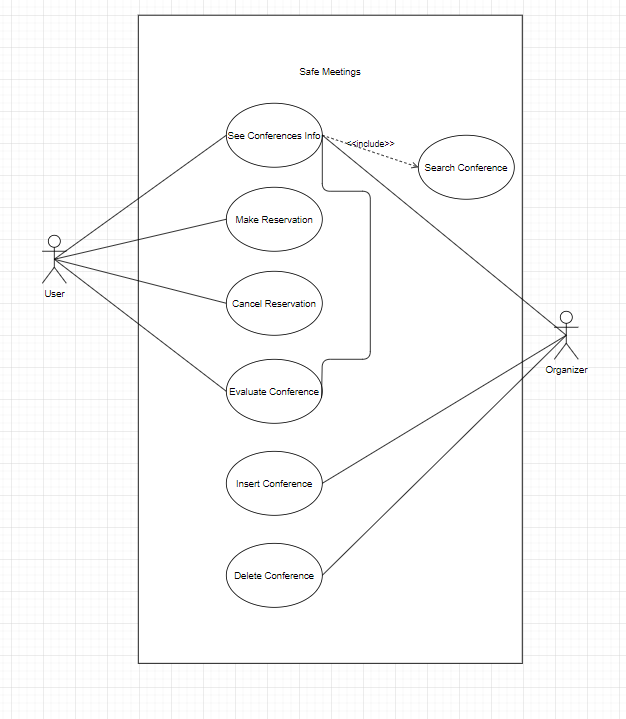
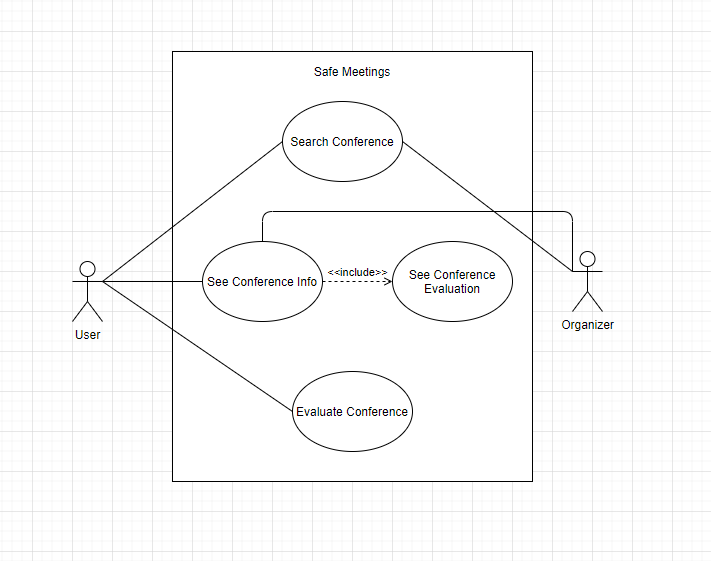
Adiionei use cases e a descricao

diff --git a/README.md b/README.md
@@ -51,18 +51,20 @@ Start by contextualizing your module, describing the main concepts, terms, roles
 
 ![Use Cases diagram](/images/use_cases.png)
 
-Create a use-case diagram in UML with all high-level use cases possibly addressed by your module.
+**See Conference Info**
+*Actor:* User/Organizer
+*Description:* When the user/organizer runs the app it shows all the curent conferences registred and their general information, in order to see more info about their he should touch in one of the conferences and all the info available will be displayed.
+*Normal Flow:* run the app and then select a conference.
 
-Give each use case a concise, results-oriented name. Use cases should reflect the tasks the user needs to be able to accomplish using the system. Include an action verb and a noun. 
+**Search Conference**
+*Actor:* User/Organizer
+*Description:* When the user/organizer runs the app it shows all the curent conferences registred and their general information. If the user wants he can search for a specific conference that respects the parameters specified by the user in the search.
+*Normal Flow:* run the app and then select the search option.
 
-Briefly describe each use case mentioning the following:
-
-* **Actor**. Name only the actor that will be initiating this use case, i.e. a person or other entity external to the software system being specified who interacts with the system and performs use cases to accomplish tasks. 
-* **Description**. Provide a brief description of the reason for and outcome of this use case, or a high-level description of the sequence of actions and the outcome of executing the use case. 
-* **Preconditions and Postconditions**. Include any activities that must take place, or any conditions that must be true, before the use case can be started (preconditions). Describe also the state of the system at the conclusion of the use case execution (postconditions). 
-
-* **Normal Flow**. Provide a detailed description of the user actions and system responses that will take place during execution of the use case under normal, expected conditions. This dialog sequence will ultimately lead to accomplishing the goal stated in the use case name and description. This is best done as a numbered list of actions performed by the actor, alternating with responses provided by the system. 
-* **Alternative Flows and Exceptions**. Document other, legitimate usage scenarios that can take place within this use case, stating any differences in the sequence of steps that take place. In addition, describe any anticipated error conditions that could occur during execution of the use case, and define how the system is to respond to those conditions. 
+**Evaluate Conference**
+*Actor:* User
+*Description:* When the user wntas to evaluate a conference he should select the desired one and then touch the button "Evaluate Conference" that will ask for a token that only the users that attended the conference will have, and then a form with some questions that will evaluate the conference will be displayed then the user should submit it.
+*Normal Flow:* The user selects the conference, then the "Evaluate Conference" button and answer the form.
 
 ### User stories
 This section will contain the requirements of the product described as **user stories**, organized in a global **[user story map](https://plan.io/blog/user-story-mapping/)** with **user roles** or **themes**.
